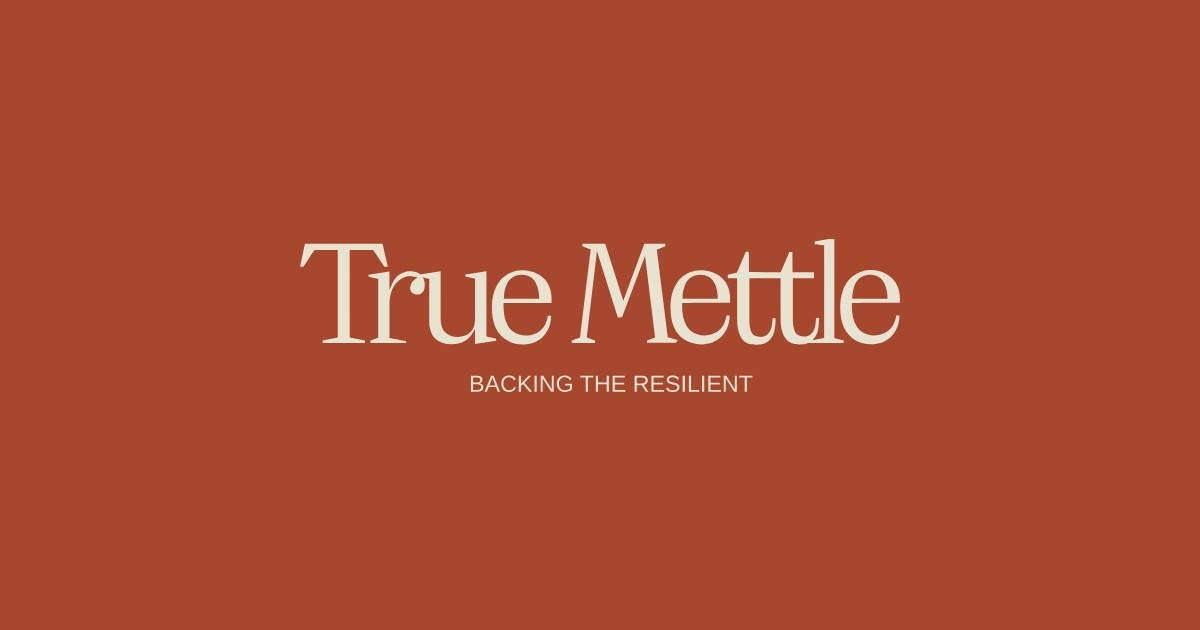
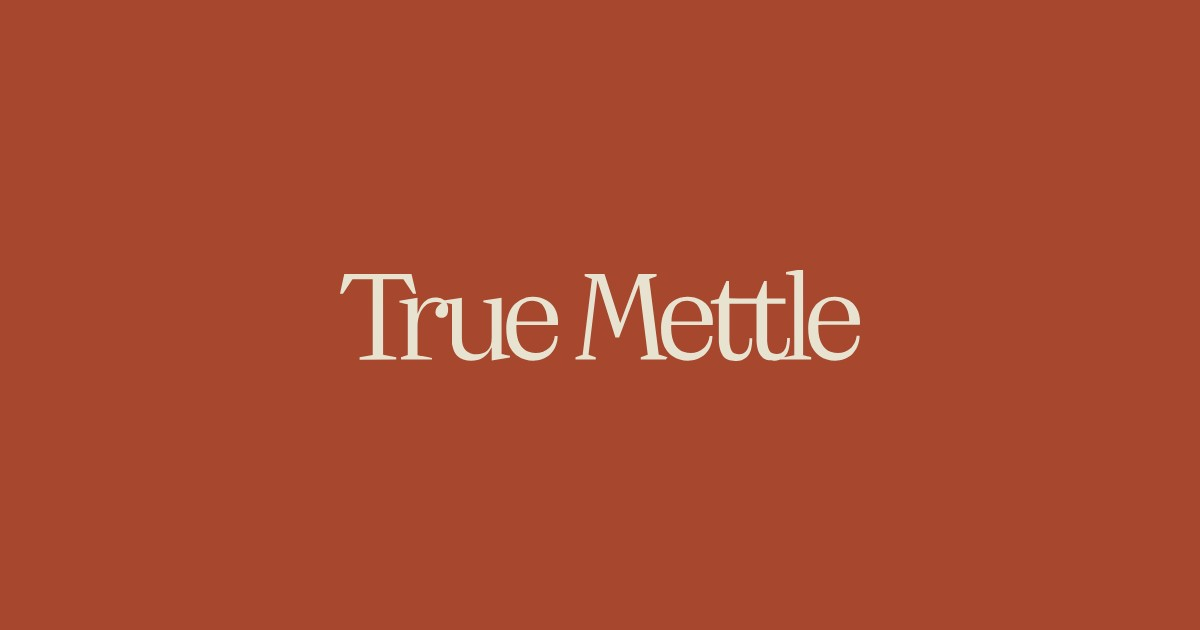
Share card: True Mettle wordmark alone
The design system's tagline lockup sets BACKING THE RESILIENT 35 units right
of the wordmark's centre and untracked, unlike MUSED's own artwork. The card
now uses the unedited tm-wordmark (the default mark for wide spaces) in Cream
White on Light Auburn, 520px wide so the 0.5x clear space holds even in a
square crop.

Claude-Session: https://claude.ai/code/session_012JLAPGeBeTHuJ5gSwN5PUq

Changed region(s): [[0.2467, 0.3619, 0.7708, 0.6333]]

diff --git a/public/index.html b/public/index.html
@@ -23,12 +23,12 @@
 <meta property="og:image:type" content="image/jpeg">
 <meta property="og:image:width" content="1200">
 <meta property="og:image:height" content="630">
-<meta property="og:image:alt" content="True Mettle, Backing the resilient: the True Mettle logo in cream on a Light Auburn background.">
+<meta property="og:image:alt" content="The True Mettle wordmark in cream on a Light Auburn background.">
 <meta name="twitter:card" content="summary_large_image">
 <meta name="twitter:title" content="True Mettle — Backing the resilient">
 <meta name="twitter:description" content="The personal investment company of Anjan Luthra. True Mettle invests in resilient entrepreneurs, and brings the playbooks and experience to help them make more profit and get their time back.">
 <meta name="twitter:image" content="https://www.truemettle.co/twitter-image.jpg">
-<meta name="twitter:image:alt" content="True Mettle, Backing the resilient: the True Mettle logo in cream on a Light Auburn background.">
+<meta name="twitter:image:alt" content="The True Mettle wordmark in cream on a Light Auburn background.">
 
 <link rel="icon" href="/favicon.svg" type="image/svg+xml">
 <link rel="icon" href="/icon-32.png" sizes="32x32" type="image/png">

diff --git a/tools/og-template.html b/tools/og-template.html
@@ -1,9 +1,10 @@
 <!doctype html>
 <!-- Source for public/opengraph-image.jpg and public/twitter-image.jpg, the
      link-preview card. MUSED's True Mettle rules: Light Auburn ground, the
-     official tagline lockup (tools/brand/tm-tagline-lockup-cream-white.svg, from the
+     official wordmark (tools/brand/tm-wordmark-cream-white.svg, from the
      design system's Logos group, never retyped) in Cream White, centred, no
-     other text. Regenerate with `npm run images` after editing. -->
+     other text. 520px wide keeps the 0.5x clear space even in a square crop.
+     Regenerate with `npm run images` after editing. -->
 <html lang="en">
 <head>
 <meta charset="utf-8">
@@ -11,10 +12,10 @@
   * { margin: 0; }
   html, body { width: 1200px; height: 630px; overflow: hidden; background: #A6472E; }
   body { display: flex; align-items: center; justify-content: center; }
-  img { display: block; width: 600px; height: auto; }
+  img { display: block; width: 520px; height: auto; }
 </style>
 </head>
 <body>
-  <img src="brand/tm-tagline-lockup-cream-white.svg" alt="">
+  <img src="brand/tm-wordmark-cream-white.svg" alt="">
 </body>
 </html>

diff --git a/README.md b/README.md
@@ -202,7 +202,7 @@ The wordmark, monogram and arrows are SVGs and are sharp at any size.
 - `public/favicon.svg` — still the typographic "TM" placeholder, hand-editable.
 - `tools/og-template.html` and `tools/icon-template.html` — the sources for
   `public/opengraph-image.jpg` / `public/twitter-image.jpg` (the link preview
-  card: MUSED's tagline lockup in Cream White on Light Auburn) and the touch icons.
+  card: MUSED's True Mettle wordmark in Cream White on Light Auburn) and the touch icons.
 
 ```bash
 npm run images   # re-renders the link preview card, apple-touch-icon.png and icon-32.png
